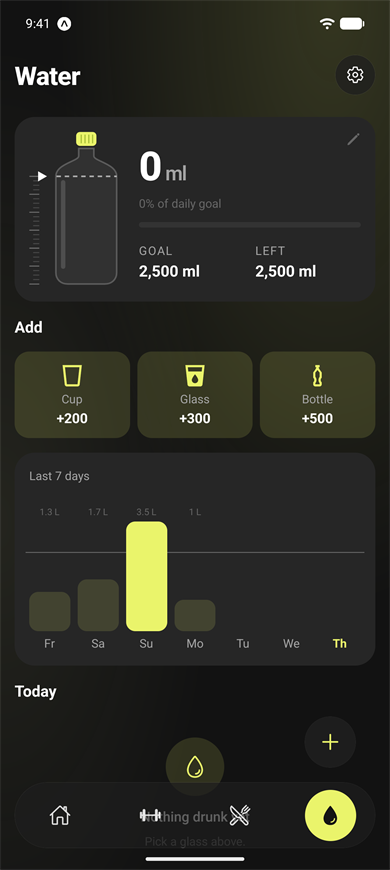
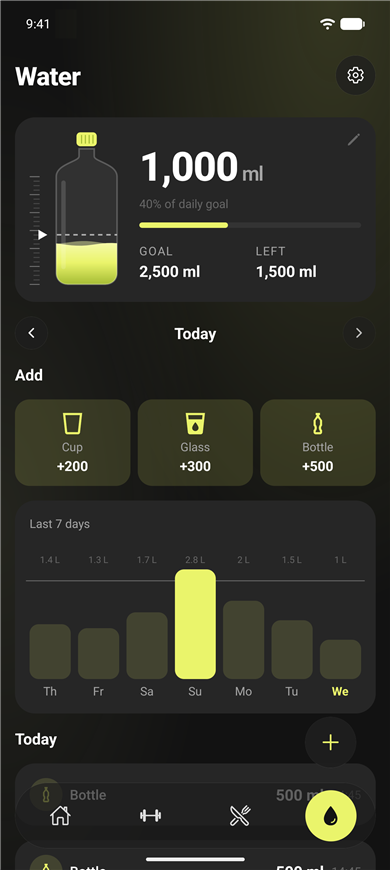
Let water be logged and edited on past days
The water tab gets the food tab's day picker: arrows and a tap on a
chart bar pick the day, and glasses are added, edited and removed there.

diff --git a/src/app/(tabs)/water.tsx b/src/app/(tabs)/water.tsx
@@ -2,7 +2,7 @@ import Ionicons from '@expo/vector-icons/Ionicons';
 import MaterialCommunityIcons from '@expo/vector-icons/MaterialCommunityIcons';
 import { router } from 'expo-router';
 import { useState } from 'react';
-import { StyleSheet, View } from 'react-native';
+import { Pressable, StyleSheet, View } from 'react-native';
 
 import { GoalPulse, GrowBar, GrowColumn, ListRow } from '@/components/motion';
 import { TAB_BAR_FAB_SPACE, TabBarFab, useTabBarSpace } from '@/components/floating-tab-bar';
@@ -27,10 +27,10 @@ import { useDbQuery } from '@/hooks/use-db-query';
 import { useNow } from '@/hooks/use-now';
 import { useToday } from '@/hooks/use-today';
 import { locale, tr } from '@/lib/i18n';
-import { WEEKDAY_SHORT, weekdayIndex } from '@/lib/labels';
+import { formatLongDate, WEEKDAY_SHORT, weekdayIndex } from '@/lib/labels';
 import { paceShare } from '@/lib/reminders';
 import { formatVolume, formatVolumeCompact, VOLUME_UNIT } from '@/lib/units';
-import { GLASS_PRESETS, glassForAmount, glassToHold } from '@/lib/water';
+import { addDays, GLASS_PRESETS, glassForAmount, glassToHold } from '@/lib/water';
 import { colors, fontSize, radius, spacing } from '@/theme';
 
 const timeFormatter = new Intl.DateTimeFormat(locale, { hour: '2-digit', minute: '2-digit' });
@@ -40,13 +40,18 @@ const QUICK_ML = 300;
 
 export default function WaterScreen() {
   const tabBarSpace = useTabBarSpace();
-  const day = useToday();
+  const today = useToday();
   const now = useNow();
-  const { data } = useDbQuery(() => loadWater(), [day]);
+  // Counted back from today, so the selection follows the day rolling over.
+  const [daysAgo, setDaysAgo] = useState(0);
+  const day = addDays(today, -daysAgo);
+  const isToday = daysAgo === 0;
+  const { data } = useDbQuery(() => loadWater(Date.now(), day), [day]);
   const [pouring, setPouring] = useState<(PourRequest & { editId?: number }) | null>(null);
 
   if (!data) return <Loading />;
-  const { goal, todayEntries, todayMl, days, today, dayWindow } = data;
+  const { goal, dayEntries, dayMl, days, dayWindow } = data;
+  const dayTitle = isToday ? tr('Сьогодні', 'Today') : formatLongDate(day);
 
   const chartMax = Math.max(goal, ...days.map((d) => d.totalMl));
 
@@ -63,16 +68,30 @@ export default function WaterScreen() {
           {/* The whole card opens the goal settings; the pencil says so. */}
           <Ionicons name="pencil" size={16} color={colors.textMuted} style={styles.edit} />
           <Row style={styles.hero}>
-            <GoalPulse reached={goal > 0 && todayMl >= goal}>
+            <GoalPulse reached={goal > 0 && dayMl >= goal}>
               <WaterBottle
-                progress={goal > 0 ? todayMl / goal : 0}
-                pace={paceShare(dayWindow, now)}
+                progress={goal > 0 ? dayMl / goal : 0}
+                // Where the level should be by now only means something today.
+                pace={isToday ? paceShare(dayWindow, now) : undefined}
                 height={170}
               />
             </GoalPulse>
-            <WaterSummary todayMl={todayMl} goal={goal} />
+            <WaterSummary dayMl={dayMl} goal={goal} isToday={isToday} />
           </Row>
         </Card>
+
+        <Row style={styles.dayNav}>
+          <CircleButton icon="chevron-back" size={36} onPress={() => setDaysAgo(daysAgo + 1)} />
+          <View style={styles.dayTitle}>
+            <Text variant="heading">{dayTitle}</Text>
+          </View>
+          <CircleButton
+            icon="chevron-forward"
+            size={36}
+            disabled={isToday}
+            onPress={() => setDaysAgo(daysAgo - 1)}
+          />
+        </Row>
 
         <SectionHeader title={tr('Додати', 'Add')} />
         <View style={styles.glasses}>
@@ -87,10 +106,12 @@ export default function WaterScreen() {
           <Text variant="caption">{tr('Останні 7 днів', 'Last 7 days')}</Text>
           <View style={styles.chart}>
             {days.map((d) => {
-              const isToday = d.dayStart === today;
               const reached = d.totalMl >= goal;
               return (
-                <View key={d.dayStart} style={styles.barColumn}>
+                <Pressable
+                  key={d.dayStart}
+                  style={styles.barColumn}
+                  onPress={() => setDaysAgo(Math.round((today - d.dayStart) / 86_400_000))}>
                   <Text variant="muted" style={styles.barValue} numberOfLines={1}>
                     {d.totalMl > 0 ? formatVolumeCompact(d.totalMl) : ''}
                   </Text>
@@ -101,24 +122,24 @@ export default function WaterScreen() {
                       style={[styles.bar, !reached && styles.barPartial]}
                     />
                   </View>
-                  <Text variant="caption" style={isToday && styles.today}>
+                  <Text variant="caption" style={d.dayStart === day && styles.today}>
                     {WEEKDAY_SHORT[weekdayIndex(d.dayStart)]}
                   </Text>
-                </View>
+                </Pressable>
               );
             })}
           </View>
         </Card>
 
-        <SectionHeader title={tr('Сьогодні', 'Today')} />
-        {todayEntries.length === 0 ? (
+        <SectionHeader title={dayTitle} />
+        {dayEntries.length === 0 ? (
           <EmptyState
             icon="water-outline"
             title={tr('Ще нічого не випито', 'Nothing drunk yet')}
             hint={tr('Обери склянку вище.', 'Pick a glass above.')}
           />
         ) : (
-          [...todayEntries].reverse().map((e) => {
+          [...dayEntries].reverse().map((e) => {
             const glass = glassForAmount(e.amountMl);
             const time = timeFormatter.format(new Date(e.drankAt));
             return (
@@ -165,7 +186,7 @@ export default function WaterScreen() {
           onAdd={(ml) => {
             setPouring(null);
             if (pouring?.editId != null) updateWater(pouring.editId, ml);
-            else drinkWater(ml);
+            else drinkWater(ml, day);
           }}
         />
       </Screen>
@@ -180,9 +201,9 @@ export default function WaterScreen() {
   );
 }
 
-/** Today's total, percent and what's left, counting up when a drink is added. */
-function WaterSummary({ todayMl, goal }: { todayMl: number; goal: number }) {
-  const ml = Math.round(useAnimatedNumber(todayMl));
+/** The day's total, percent and what's left, counting up when a drink is added. */
+function WaterSummary({ dayMl, goal, isToday }: { dayMl: number; goal: number; isToday: boolean }) {
+  const ml = Math.round(useAnimatedNumber(dayMl));
   const percent = goal > 0 ? Math.round((ml / goal) * 100) : 0;
 
   return (
@@ -192,12 +213,14 @@ function WaterSummary({ todayMl, goal }: { todayMl: number; goal: number }) {
         <Text style={styles.unit}> {VOLUME_UNIT}</Text>
       </Text>
       <Text variant="muted">
-        {todayMl >= goal && ml >= goal
-          ? tr('Ціль на сьогодні виконано!', 'Today’s goal reached!')
+        {dayMl >= goal && ml >= goal
+          ? isToday
+            ? tr('Ціль на сьогодні виконано!', 'Today’s goal reached!')
+            : tr('Ціль виконано!', 'Goal reached!')
           : tr(`${percent}% денної норми`, `${percent}% of daily goal`)}
       </Text>
       <GrowBar
-        progress={goal > 0 ? todayMl / goal : 0}
+        progress={goal > 0 ? dayMl / goal : 0}
         color={colors.accent}
         style={styles.progressTrack}
       />
@@ -250,6 +273,8 @@ const styles = StyleSheet.create({
   glasses: { flexDirection: 'row', flexWrap: 'wrap', gap: spacing.sm },
   glassCell: { flexGrow: 1, flexBasis: '30%' },
   spaceBetween: { justifyContent: 'space-between' },
+  dayNav: { gap: spacing.md, justifyContent: 'space-between' },
+  dayTitle: { flex: 1, alignItems: 'center' },
   chart: {
     flexDirection: 'row',
     gap: spacing.sm,

diff --git a/src/db/water.ts b/src/db/water.ts
@@ -34,17 +34,18 @@ export async function deleteWater(id: number) {
 }
 
 /**
- * Today's glasses (oldest first), the goal, the waking hours it is spread
- * over, and per-day totals for the last `HISTORY_DAYS` days ending today.
+ * Today's glasses and those of `day` (oldest first), the goal, the waking hours
+ * it is spread over, and per-day totals for the last `HISTORY_DAYS` days ending today.
  */
-export async function loadWater(now = Date.now()) {
+export async function loadWater(now = Date.now(), day = startOfDay(now)) {
   const today = startOfDay(now);
   const from = addDays(today, -(HISTORY_DAYS - 1));
+  const dayEnd = addDays(day, 1);
   const [goal, dayWindow, rows] = await Promise.all([
     getWaterGoal(),
     getDayWindow(),
     db.query.waterIntakes.findMany({
-      where: gte(waterIntakes.drankAt, from),
+      where: gte(waterIntakes.drankAt, Math.min(from, day)),
       orderBy: [asc(waterIntakes.drankAt)],
     }),
   ]);
@@ -53,14 +54,17 @@ export async function loadWater(now = Date.now()) {
     totalMl: 0,
   }));
   for (const r of rows) {
-    const day = days.findLast((d) => r.drankAt >= d.dayStart);
-    if (day) day.totalMl += r.amountMl;
+    const d = days.findLast((x) => r.drankAt >= x.dayStart);
+    if (d) d.totalMl += r.amountMl;
   }
   const todayEntries = rows.filter((r) => r.drankAt >= today);
+  const dayEntries = rows.filter((r) => r.drankAt >= day && r.drankAt < dayEnd);
   return {
     goal,
     todayEntries,
     todayMl: todayEntries.reduce((sum, r) => sum + r.amountMl, 0),
+    dayEntries,
+    dayMl: dayEntries.reduce((sum, r) => sum + r.amountMl, 0),
     days,
     today,
     dayWindow,

diff --git a/src/db/food.ts b/src/db/food.ts
@@ -34,7 +34,7 @@ import {
 } from '@/lib/groq';
 import { lang, locale } from '@/lib/i18n';
 import { MAIN_MEALS, MEALS, mealOf } from '@/lib/meals';
-import { addDays, startOfDay } from '@/lib/water';
+import { addDays, startOfDay, timeOnDay } from '@/lib/water';
 import { db } from './client';
 import { loadProfile } from './profile';
 import {
@@ -53,15 +53,6 @@ const GOAL_KEY = 'kcal_goal';
 export const FOOD_HISTORY_DAYS = 7;
 /** How far back a meal is looked for to offer repeating it. */
 const REPEAT_LOOKBACK_DAYS = 14;
-
-/**
- * The time of day of `timeOf` (now by default) on `day`, a local midnight, but
- * never in the future: logging into a past day or today keeps a sensible time.
- */
-export function timeOnDay(day: number, timeOf = Date.now()) {
-  const now = Date.now();
-  return Math.min(day + (timeOf - startOfDay(timeOf)), addDays(day, 1) - 1, now);
-}
 
 export async function getKcalGoal() {
   const row = await db.query.settings.findFirst({ where: eq(settings.key, GOAL_KEY) });

diff --git a/src/components/water-card.tsx b/src/components/water-card.tsx
@@ -5,12 +5,12 @@ import { Text } from '@/components/ui';
 import { addWater } from '@/db/water';
 import { tr } from '@/lib/i18n';
 import { formatVolume, VOLUME_UNIT } from '@/lib/units';
-import type { GlassPreset } from '@/lib/water';
+import { type GlassPreset, timeOnDay } from '@/lib/water';
 import { colors, radius, spacing } from '@/theme';
 
-/** Logs a glass of water. */
-export async function drinkWater(ml: number) {
-  await addWater(ml);
+/** Logs a glass of water, now or at this time of day on a past `day`. */
+export async function drinkWater(ml: number, day?: number) {
+  await addWater(ml, day == null ? Date.now() : timeOnDay(day));
 }
 
 /** Icon tile for one container size; `compact` drops the name for tight rows. */

diff --git a/src/app/add-food.tsx b/src/app/add-food.tsx
@@ -44,7 +44,6 @@ import {
   rateFood,
   saveFood,
   searchFoods,
-  timeOnDay,
   type FailedFood,
   type FoundFood,
   type FoundProduct,
@@ -67,6 +66,7 @@ import { tr } from '@/lib/i18n';
 import { captureForAi, readForAi } from '@/lib/images';
 import { MEALS, mealAt, type Meal } from '@/lib/meals';
 import { parseDecimal } from '@/lib/metrics';
+import { timeOnDay } from '@/lib/water';
 import { colors, fontSize, radius, spacing } from '@/theme';
 
 // Drinks come in bigger round volumes, so they step faster.

diff --git a/src/lib/water.ts b/src/lib/water.ts
@@ -51,3 +51,12 @@ export function addDays(ms: number, days: number) {
   d.setDate(d.getDate() + days);
   return d.getTime();
 }
+
+/**
+ * The time of day of `timeOf` (now by default) on `day`, a local midnight, but
+ * never in the future: logging into a past day or today keeps a sensible time.
+ */
+export function timeOnDay(day: number, timeOf = Date.now()) {
+  const now = Date.now();
+  return Math.min(day + (timeOf - startOfDay(timeOf)), addDays(day, 1) - 1, now);
+}
